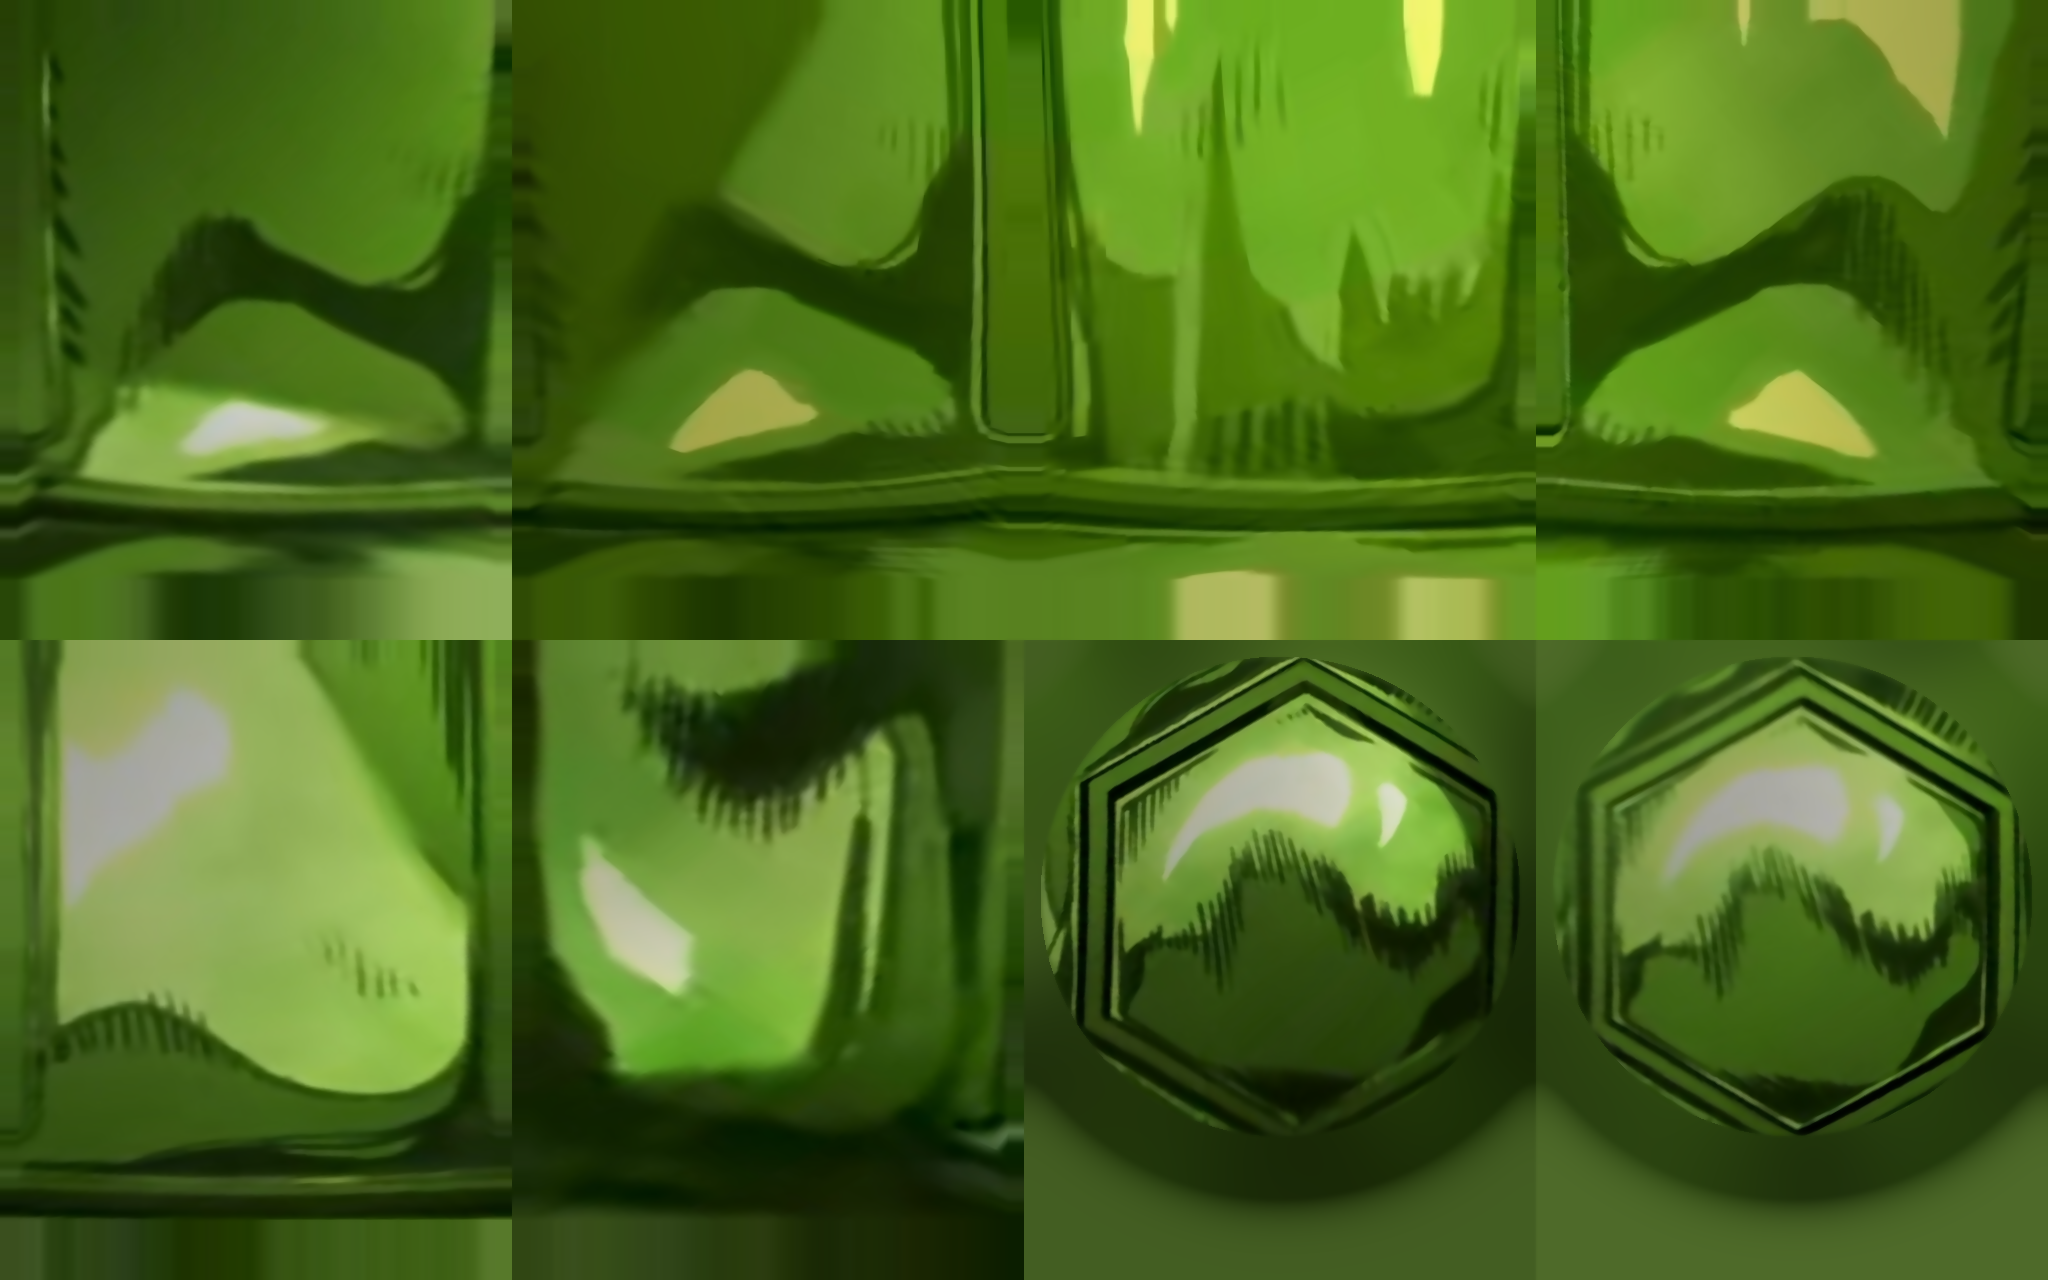
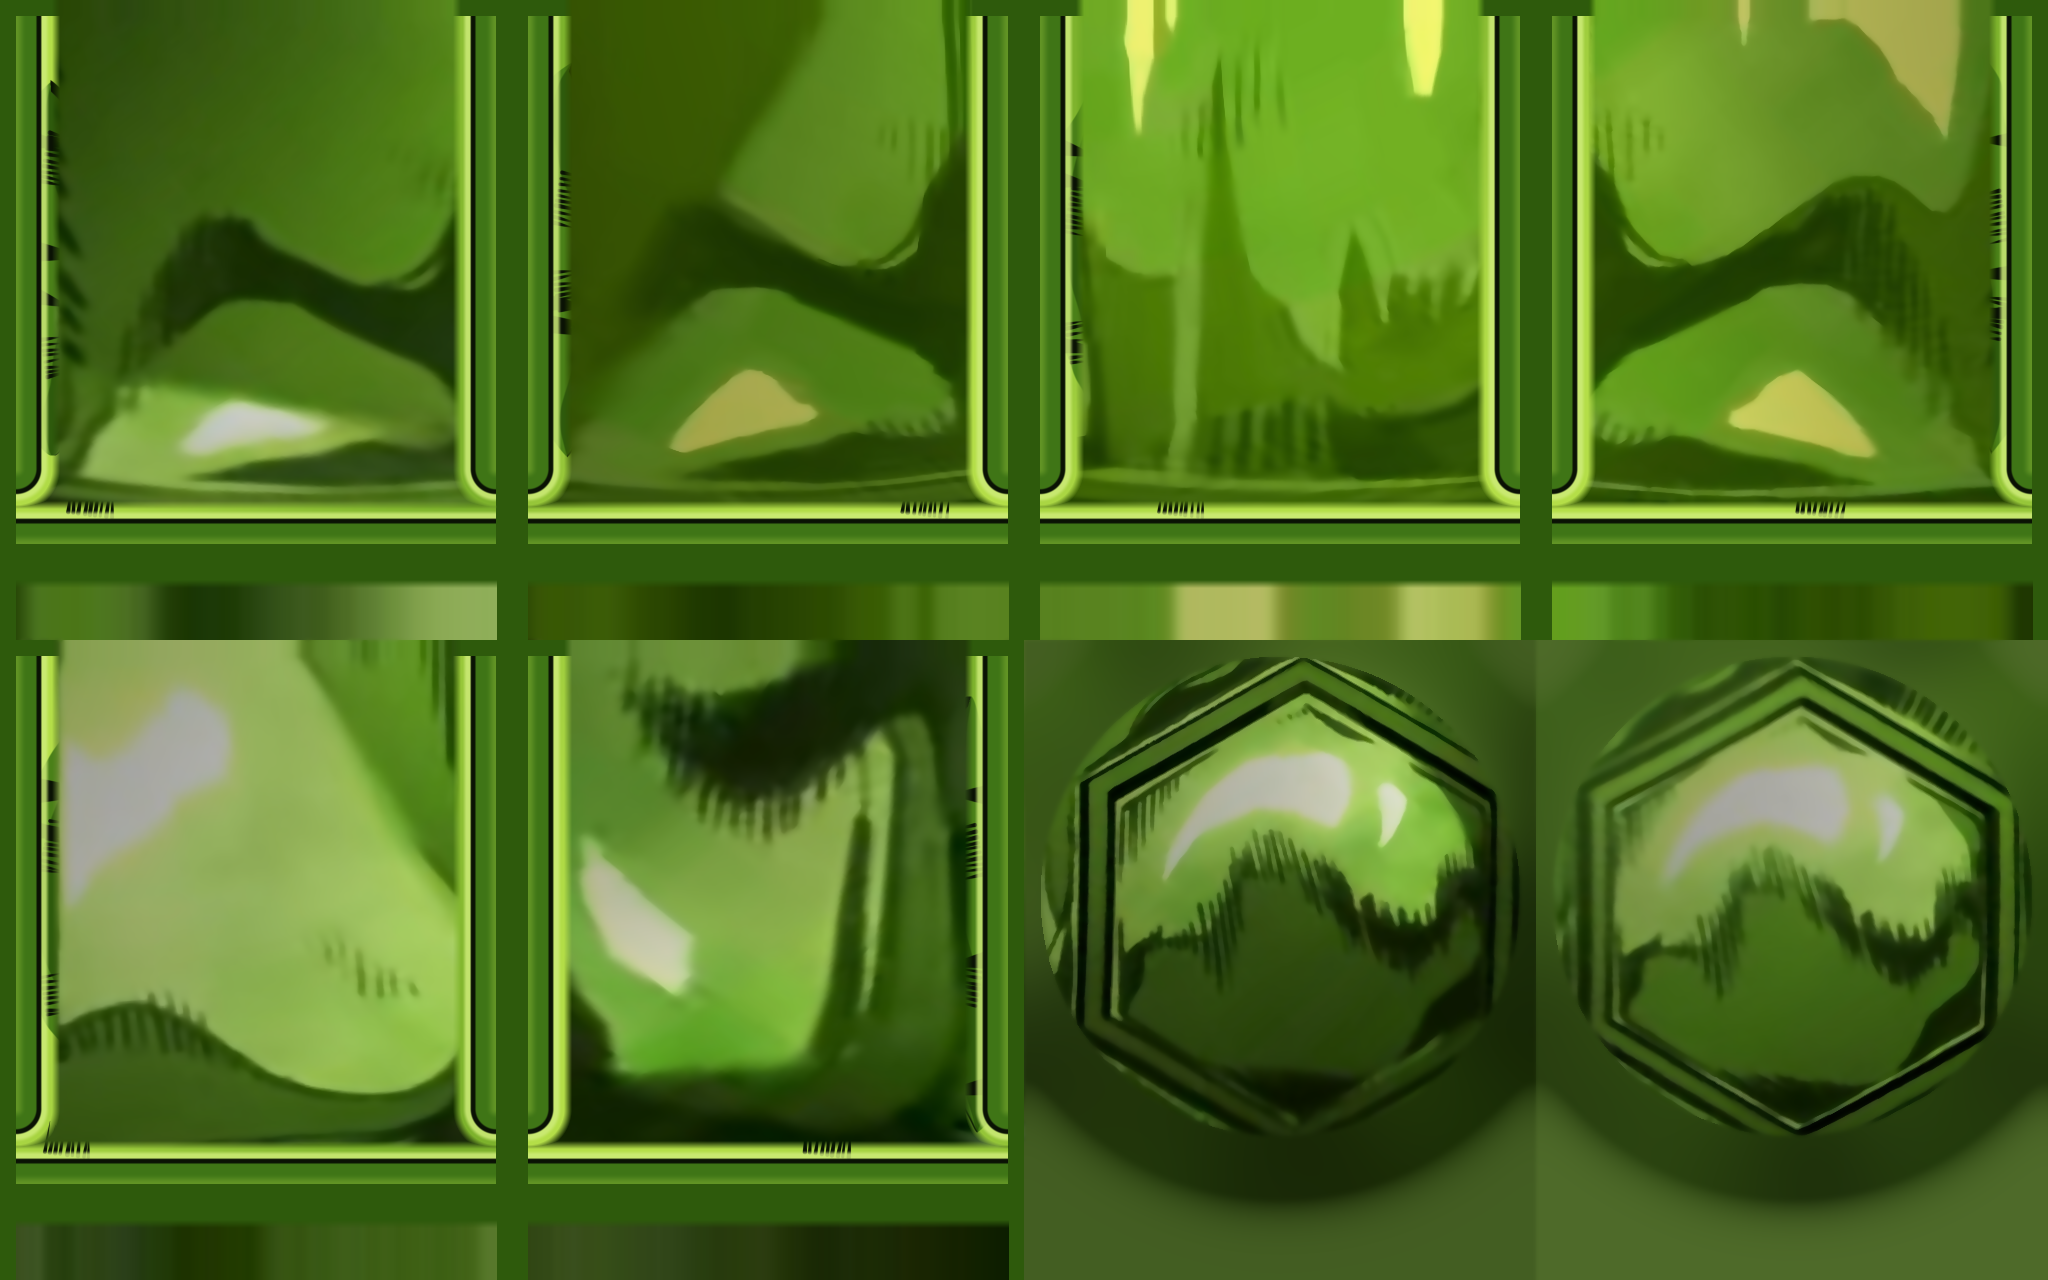
feat(paint): draw panel grooves from clean starter art
Frames see the grooves smeared, so the bake composites the procedural
groove channels and ink lines over the traced paint on panel cells.

Changed region(s): [[0.0, 0.0, 1.0, 1.0]]

diff --git a/scripts/paint/bake_atlas.py b/scripts/paint/bake_atlas.py
@@ -95,9 +95,25 @@ for cell in range(8):
     atlas[y0:y0+CELL[1],x0:x0+CELL[0]]=c
     print('cell',cell,'seen %.2f'%ok.mean())
 out=np.clip(atlas,0,255).astype(np.uint8)
+GROOVE_R=float(sys.argv[2]) if len(sys.argv)>2 else 1.9
 FLAT=int(sys.argv[1]) if len(sys.argv)>1 else 0
 if FLAT:   # flatten: edge-preserving smoothing keeps the ink and cel edges, evens out frame noise
     for _ in range(FLAT): out=cv2.bilateralFilter(out,7,28,5)
+# clean grooves: the frames see grooves smeared and at odd angles, so the groove channels, lips and
+# ink lines on the panels come from the procedural starter art (starter.png, = `npm run ink`), the
+# traced paint stays everywhere else. Hexagon cells keep the traced grooves.
+st=np.asarray(Image.open('starter.png').convert('RGB')).astype(np.float32)
+SEGR=np.radians(60); GW=0.05*458.4
+sEC=np.pi/2-edge_theta(SEGR/2); slotEnd=EDGEY*(1-np.radians(9)/sEC)
+ys,xs=np.mgrid[0:CELL[1],0:CELL[0]].astype(float); lx=xs-PX; ly=ys-PY
+dx=np.minimum(lx,PW-lx); dSlot=np.where(ly>slotEnd,np.hypot(dx,ly-slotEnd),dx); dEdge=np.abs(EDGEY-ly)
+gd=np.minimum(dSlot,dEdge); gd=np.where((lx<0)|(lx>PW),-1,gd)
+A=np.clip((GW*GROOVE_R-gd)/(GW*0.35),0,1)[...,None]
+res=out.astype(np.float32)
+for cell in range(6):
+    x0,y0=(cell%4)*CELL[0],(cell//4)*CELL[1]
+    res[y0:y0+CELL[1],x0:x0+CELL[0]]=res[y0:y0+CELL[1],x0:x0+CELL[0]]*(1-A)+st[y0:y0+CELL[1],x0:x0+CELL[0]]*A
+out=np.clip(res,0,255).astype(np.uint8)
 Image.fromarray(out).save('../../src/assets/ink.png',optimize=True)
 json.dump(dict(L=SL.tolist(),g=SG.tolist()),open('../../src/assets/shade.json','w'))
 poses={k:[round(float(x),4) for x in Rot.from_matrix(P[k]@GS[TW[[i for i,ch in enumerate(CHAINS) if k in ch][0]]]).as_quat()] for ch in CHAINS for k in ch}
